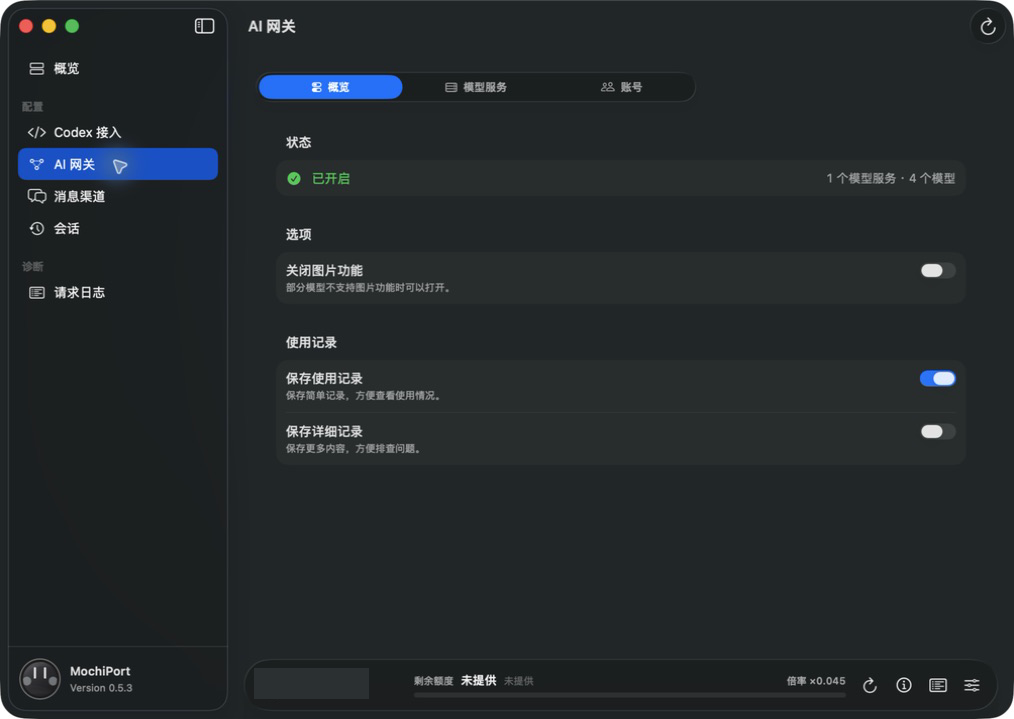
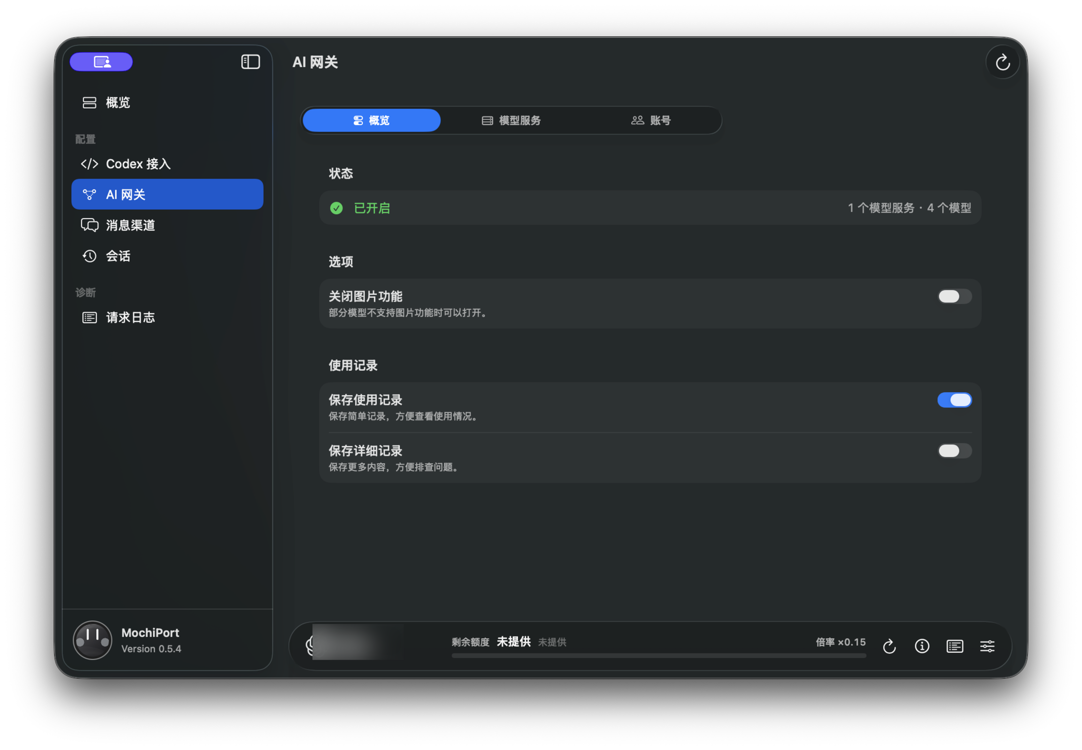
文档：更新 macOS 原生窗口截图

diff --git a/AGENTS.md b/AGENTS.md
@@ -10,8 +10,9 @@
 - 不要只用应用名称或 Bundle ID 定位，因为 Xcode 构建产物和正式 App 可能使用相同 Bundle ID。
 - 截图中不得出现桌面、菜单栏、Dock、终端、Codex 或其他应用窗口。
 - 如果 MochiPort 同时存在多个窗口，只截与当前任务对应的窗口；界面改动默认截主窗口中的目标页面。
-- 优先通过 Computer Use 针对上述完整 App 路径读取窗口状态，并使用该窗口返回的截图。
-- 发送截图前检查图片四周：边界应与 MochiPort 窗口边界一致。若仍包含屏幕背景或其他窗口，必须重新按窗口范围截图，不能把全屏截图直接交付。
+- 优先通过 Computer Use 针对上述完整 App 路径读取窗口状态和切换页面；保存正式截图时使用 macOS 原生窗口截图模式，例如 `screencapture -l <窗口ID>`，并保留系统窗口投影。
+- 不得使用关闭窗口阴影的 `screencapture -o`，也不得把窗口外接矩形直接裁成不透明图片；正式 PNG 必须保留透明圆角，四角不得出现白色或其它底色填充。
+- 发送截图前检查图片四周：边界应包含完整的 MochiPort 窗口圆角和系统投影，但不得包含屏幕背景或其他窗口。若仍包含桌面背景、白色四角或其他窗口，必须重新使用原生窗口模式截图，不能把全屏截图直接交付。
 - 只有用户明确要求查看桌面整体布局、多个窗口关系或全屏效果时，才允许截全屏。
 
 ## 构建和运行交接
